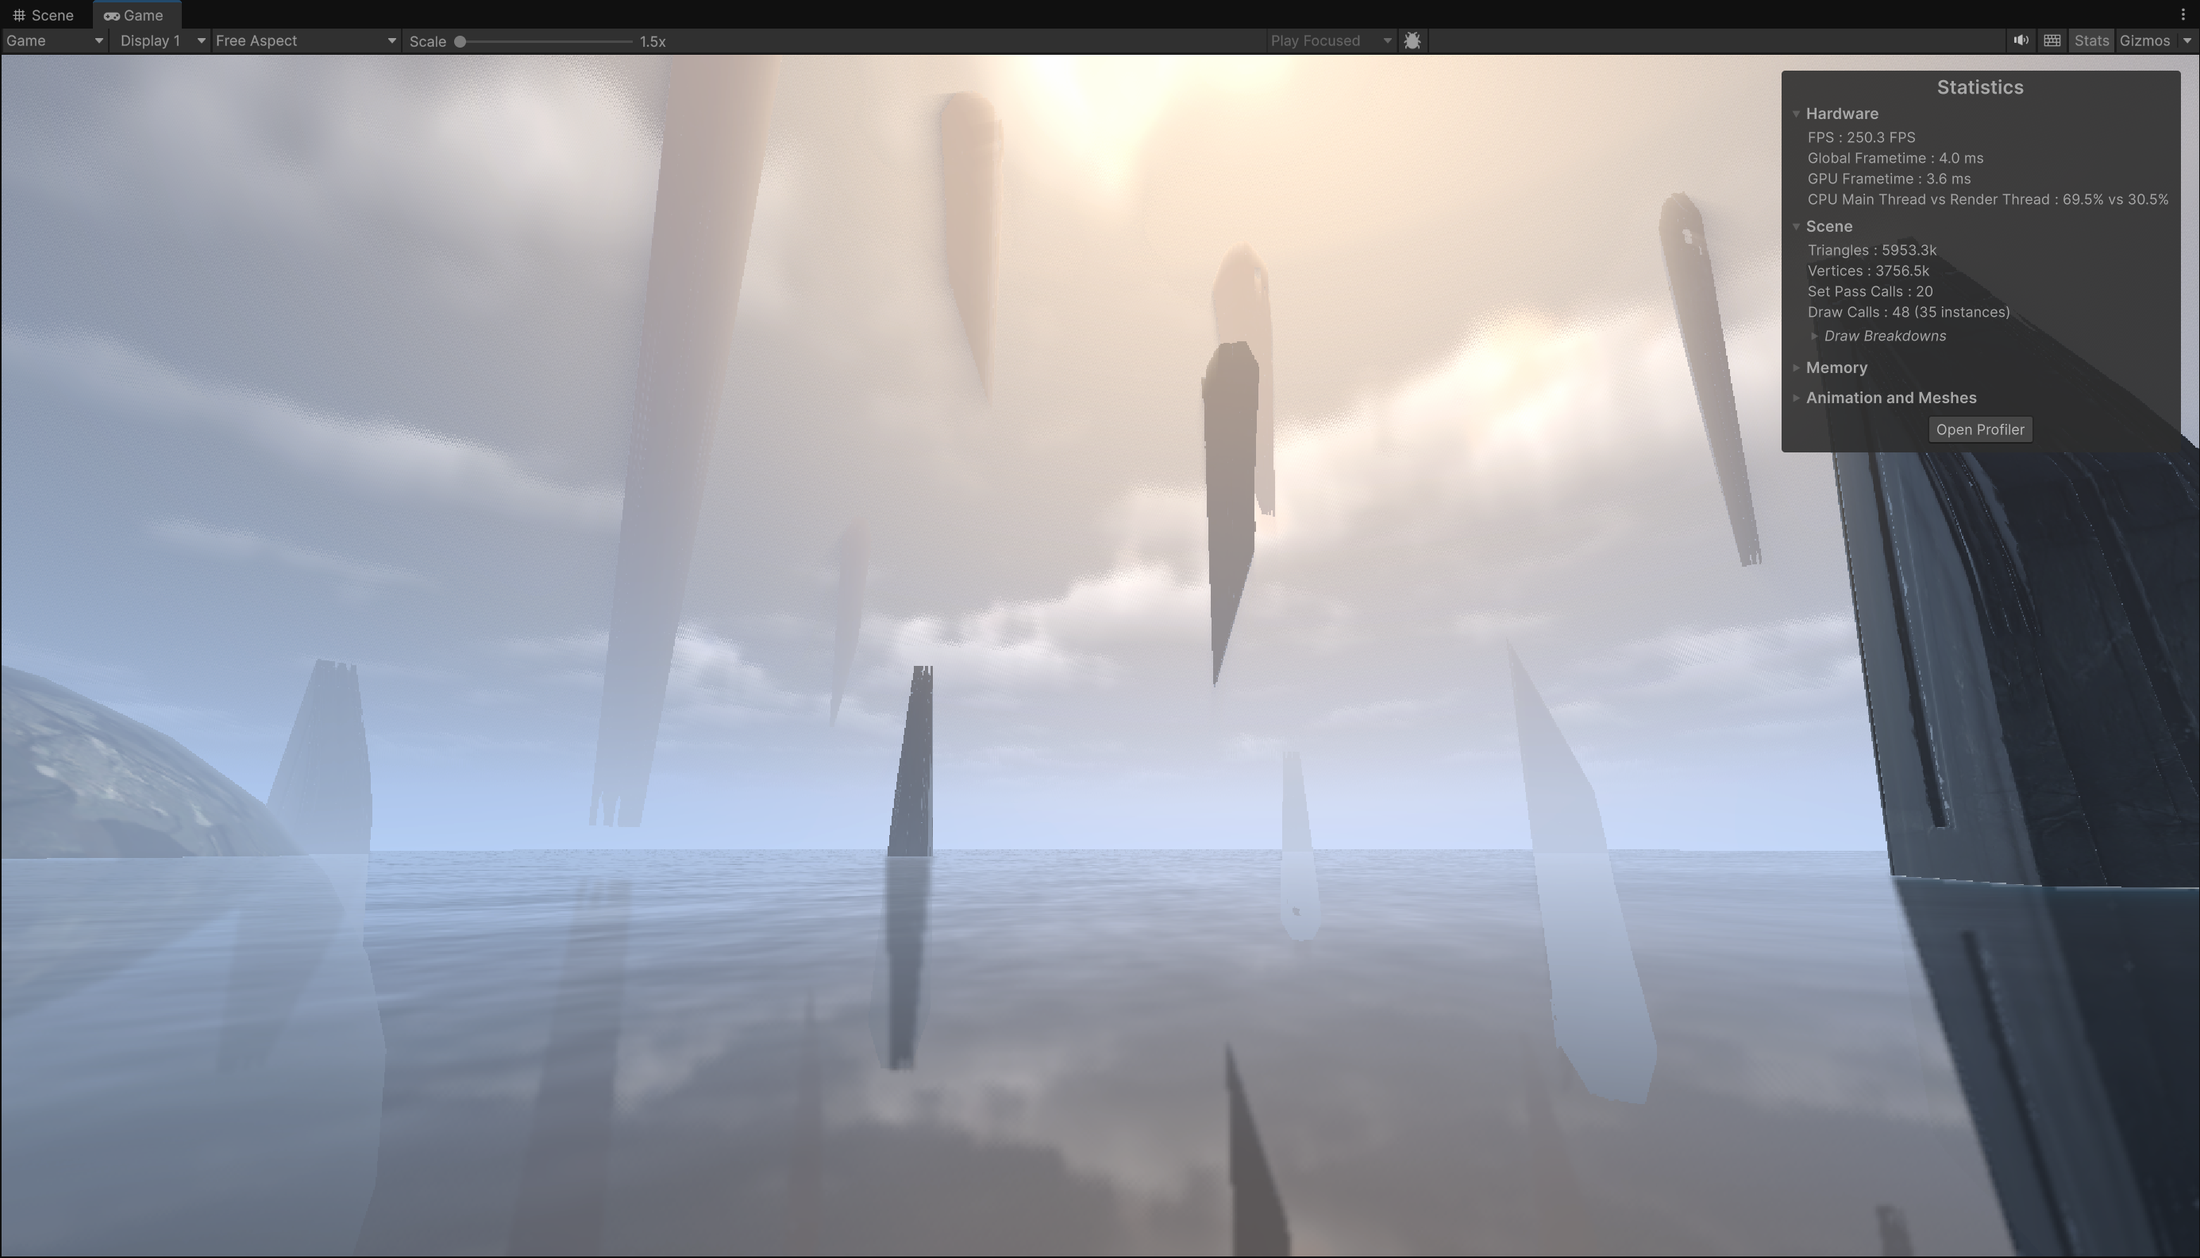
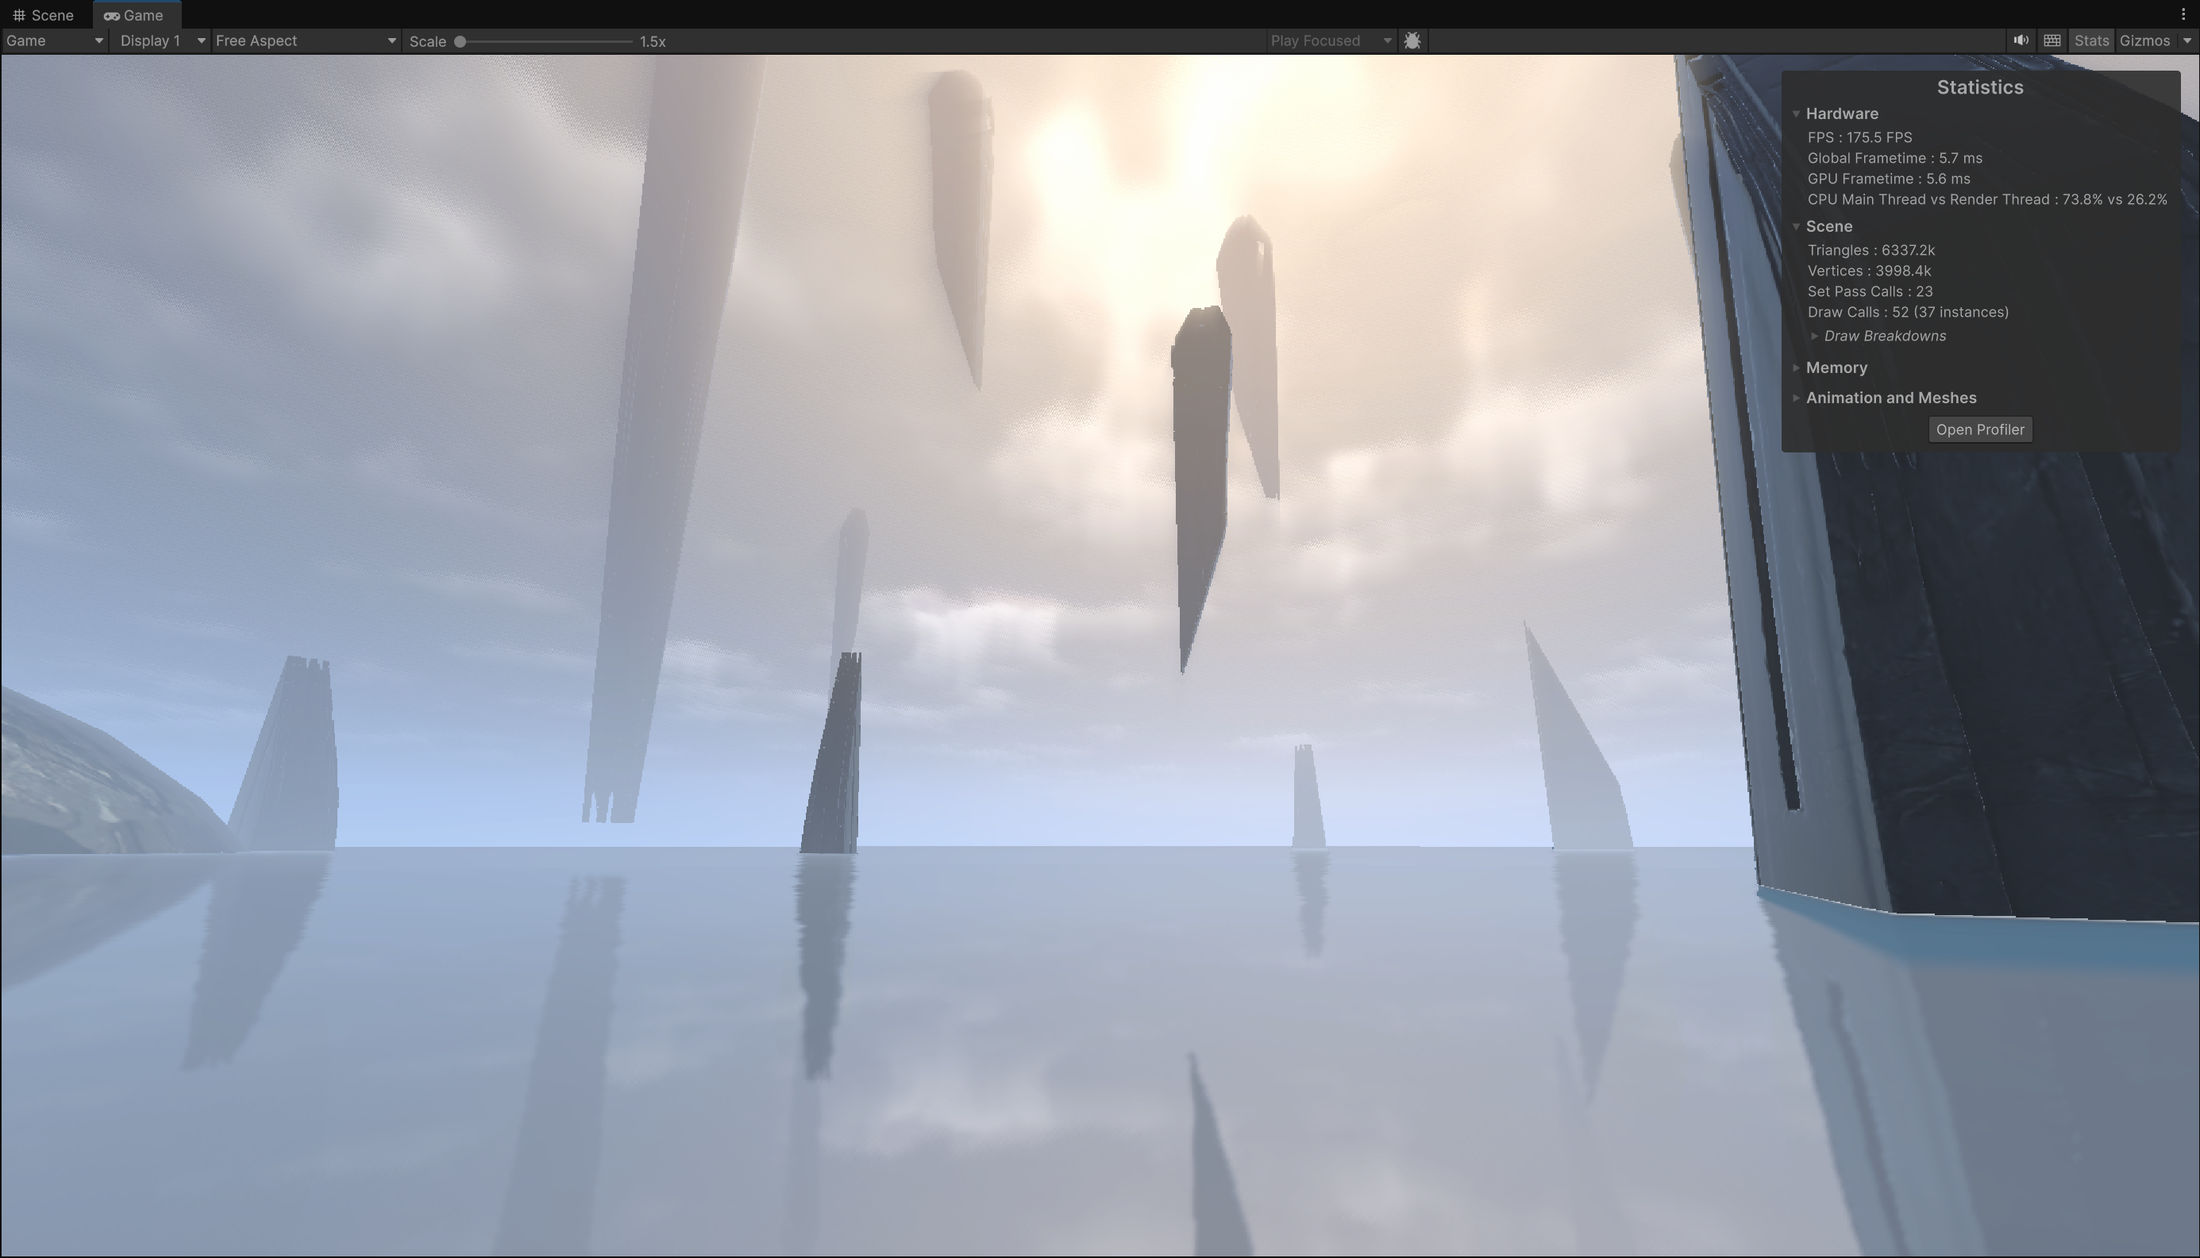
Update The Maze screenshot stats

diff --git a/src/content/updates/the-maze.md b/src/content/updates/the-maze.md
@@ -21,7 +21,7 @@ I've been putting together a new Unity development environment that I am calling
 Right now, this version is mostly about getting 3D rendering into a strong place. So far I've made custom Unity render pipeline features for planar reflections, screen-space reflections, procedural clouds, cloud shadows, water, volumetric fog, lighting, sun rays, shaders, and a custom post-processing setup. I will probably open source some of the individual graphics features later once they are refined enough for other people to use outside my own setup.
 {% endcolumn %}
 {% column %}
-In this screenshot, the scene is running at over 250 FPS while drawing about 5.95 million triangles, with a GPU frame time around 3.6 ms. There's only 48 draw calls since there is not a full environment here yet, so that number does not mean the whole thing is optimized, but it is already a good sign for the kind of scenes I want to build.
+In this screenshot, the scene is running at about 175 FPS while drawing about 6.34 million triangles, with a GPU frame time around 5.6 ms. There are only 52 draw calls and 23 set pass calls since there is not a full environment here yet, so those numbers do not mean the whole thing is optimized, but it is already a good sign for the kind of scenes I want to build.
 {% endcolumn %}
 {% endcolumns %}
 